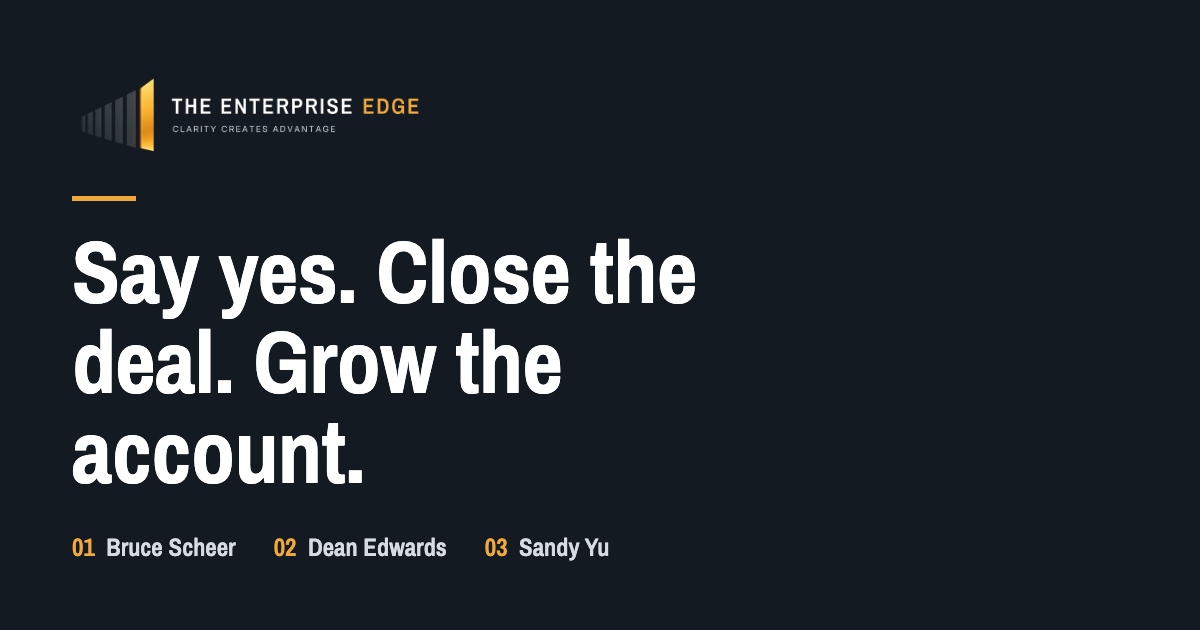
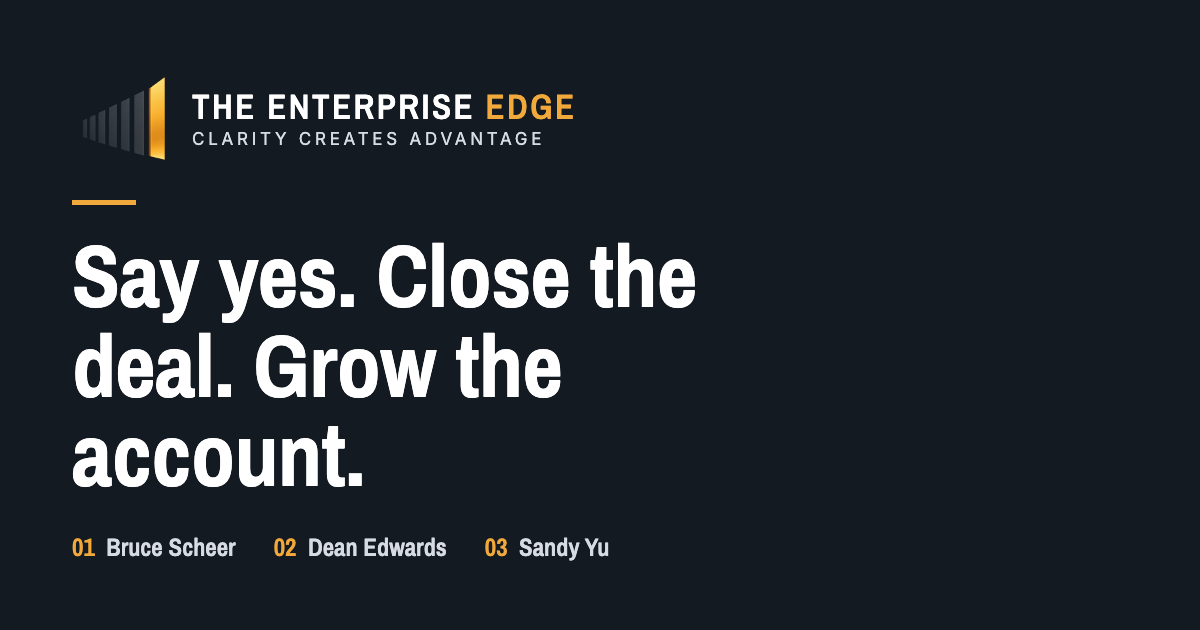
Rebalance the lockup: bigger name and phrase, smaller symbol
The lockup was a flat image, so its internal proportions could not be
touched. It is now composed from the kit's symbol plus the wordmark and
phrase set live in Archivo Narrow and Inter, which this site already
self-hosts and which the artwork was typeset in. That makes the three
parts independently sizable, keeps the text crisp at any zoom, lets it
recolour with the tokens, and makes the wordmark real text rather than
pixels.

Every number was derived by measuring the baked artwork as it actually
rendered in the header, not guessed. At 380px wide it gave a 63.5px
symbol, a 13.7px wordmark cap height, and a phrase cap height of 5.7px,
which is why the phrase looked like grey dust.

  symbol    63.5 -> 54.1  (-15%)
  wordmark  13.7 -> 16.6  (+21%)
  phrase     5.7 ->  8.0  (+40%)
  tracking  .28em -> .22em on the phrase

Cap heights were converted through each family's own ratio: Archivo Narrow
caps are .72 of em, Inter's are .727. The symbol file is 79.5% ink, so the
element is sized to 54 / 0.795. All of that is written down in brand.css
so the next adjustment is arithmetic rather than trial and error.

The header got shorter as a result, 118px to 100px, because the symbol
carried most of its height.

Two fixes alongside. Restoring the nav rules, which I deleted along with
the old brand block: the range I replaced ran past the brand styles into
.site-nav and .nav-cta, and the nav briefly rendered as unstyled links.
[…]

diff --git a/src/styles/brand.css b/src/styles/brand.css
@@ -84,31 +84,51 @@ img{max-width:100%}
 .site-head{background:var(--ink);color:var(--white)}
 .head-in{max-width:72rem;margin:0 auto;padding:1rem 1.25rem;
   display:flex;align-items:center;gap:1.5rem;flex-wrap:wrap}
-.brand{display:flex;align-items:center;text-decoration:none;flex:0 0 auto}
+.brand{display:flex;align-items:center;gap:.85rem;text-decoration:none;flex:0 0 auto}
 /* The mark sits with the type, not above it: centred alignment, and the two
    words keep their own baseline relationship via line-height. */
 /* One artwork rather than a mark plus type. Height drives the size and width
    follows, so the lockup keeps its proportions at every breakpoint, and the
    width/height attributes on the tag reserve the box before it loads. */
-/* Sized by WIDTH rather than height, because legibility of the phrase is a
-   function of width: "CLARITY CREATES ADVANTAGE" holds down to about 380px
-   across the lockup and falls apart below it. Height-driven sizing made that
-   impossible to reason about.
+/* ---------- The lockup ----------
+   Composed from three parts so each can be sized on its own. Every number
+   below was derived by measuring the kit's baked lockup as it rendered in
+   this header, then applying the adjustment asked for.
 
-   Below 700px the markup swaps to the compact lockup, which carries no
-   phrase and reads fine at 250px. */
-.brand picture{display:block}
-.brand img{display:block;width:380px;height:auto;max-width:100%;
-  transition:width .22s ease}
+   At 380px wide the artwork gave a 63.5px symbol, a 13.7px wordmark cap
+   height and a 5.7px phrase cap height. Targets: symbol 15% smaller, wordmark
+   20% larger, phrase 40% larger with slightly tighter tracking.
+
+     symbol   63.5 -> 54.0 ink height. The file is 79.5% ink, so the element
+                     is 54 / 0.795 = 68px tall.
+     wordmark 13.7 -> 16.4 cap height. Archivo Narrow caps are .72 of em,
+                     so 16.4 / .72 = 23px.
+     phrase    5.7 ->  8.0 cap height. Inter caps are .727 of em,
+                     so 8.0 / .727 = 11px.
+
+   Change a size here, not by scaling the whole lockup. */
+.brand-symbol{display:block;height:68px;width:auto;flex:0 0 auto}
+.brand-type{display:flex;flex-direction:column;gap:.4rem;min-width:0}
+.brand-name{font-family:var(--font-head);font-weight:600;font-size:23px;
+  letter-spacing:.07em;text-transform:uppercase;color:var(--white);line-height:1}
+.brand-name i{font-style:normal;color:var(--amber)}
+.brand-phrase{font-family:var(--font-body);font-weight:400;font-size:11px;
+  letter-spacing:.22em;text-transform:uppercase;color:var(--pale);line-height:1;
+  white-space:nowrap}
+
+/* Below 700px the phrase goes rather than shrinking, and the rest steps down
+   with the header. */
 @media (max-width:699px){
-  .brand img{width:250px}
+  .brand-phrase{display:none}
+  .brand-symbol{height:52px}
+  .brand-name{font-size:19px}
 }
 @media (max-width:420px){
-  .brand img{width:210px}
+  .brand-symbol{height:44px}
+  .brand-name{font-size:16px}
 }
-/* Wordmark is set in type, not an image. There is no logo file yet, and a
-   type lockup is the honest placeholder: it is legible, it scales, and it is
-   trivially replaced by an <img> when a mark exists. */
+
+/* ---------- Primary nav ---------- */
 .site-nav{margin-left:auto;display:flex;align-items:center;gap:1.25rem;flex-wrap:wrap}
 .site-nav a{color:var(--pale);text-decoration:none;font-size:.95rem;
   padding:.35rem 0;border-bottom:2px solid transparent}
@@ -330,7 +350,8 @@ p{line-height:1.6;margin:0 0 1.15rem;max-width:40rem}
   .head-in{transition:padding .22s ease}
   .site-head.is-stuck{box-shadow:0 2px 16px rgba(20,26,34,.4)}
   .site-head.is-stuck .head-in{padding-top:.5rem;padding-bottom:.5rem}
-  .site-head.is-stuck .brand img{width:300px}
+  .site-head.is-stuck .brand-symbol{height:52px}
+  .site-head.is-stuck .brand-phrase{display:none}
   :root{--anchor-offset:5rem}
 }
 [id]{scroll-margin-top:var(--anchor-offset)}

diff --git a/tools/og.html b/tools/og.html
@@ -7,10 +7,17 @@
 body{width:1200px;height:630px;background:#141A22;color:#fff;
   font-family:'Inter',sans-serif;padding:66px 72px;display:flex;
   flex-direction:column;justify-content:space-between;overflow:hidden}
-.top{display:flex;align-items:center}
-/* The finished tagline lockup, used whole. It carries the mark, the wordmark
-   and the phrase as one artwork, so nothing here re-typesets any of them. */
-.lockup{width:430px;display:block}
+.top{display:flex;align-items:center;gap:16px}
+/* Composed the same way as the site header so the two cannot drift: the
+   kit's symbol, then the wordmark and phrase set in the same fonts. Sizes
+   are the header's, scaled up for a 1200px card. */
+.sym{height:104px;width:auto;display:block;flex:0 0 auto}
+.type{display:flex;flex-direction:column;gap:7px}
+.nm{font-family:'Archivo Narrow',sans-serif;font-weight:600;font-size:35px;
+  letter-spacing:2.45px;text-transform:uppercase;color:#fff;line-height:1}
+.nm i{font-style:normal;color:#F2A93B}
+.ph{font-family:'Inter',sans-serif;font-weight:400;font-size:17px;
+  letter-spacing:3.74px;text-transform:uppercase;color:#D7DCE4;line-height:1}
 .wm span{color:#F2A93B}
 h1{font-family:'Archivo Narrow',sans-serif;font-weight:700;font-size:88px;
   line-height:1.02;letter-spacing:-.5px;max-width:19ch}
@@ -20,7 +27,11 @@ h1{font-family:'Archivo Narrow',sans-serif;font-weight:700;font-size:88px;
 .who b{color:#F2A93B;font-weight:600}
 </style></head><body>
 <div class="top">
-  <img class="lockup" src="file:///Users/brucescheer/enterprise-edge-site/public/assets/ee-lockup-tagline-dark.png" alt="">
+  <img class="sym" src="file:///Users/brucescheer/enterprise-edge-site/public/assets/ee-symbol.png" alt="">
+  <div class="type">
+    <div class="nm">The Enterprise <i>Edge</i></div>
+    <div class="ph">Clarity creates advantage</div>
+  </div>
   
 </div>
 <div>

diff --git a/tools/README.md b/tools/README.md
@@ -31,3 +31,15 @@ swift tools/crop.swift <in.jpg> <out.jpg> <x> <y> <w> <h> 800
 
 x and y are from the top left of the source image. Bruce's was
 `215 0 570 570` from a 1000x813 original.
+
+# The symbol
+
+`public/assets/ee-symbol.png` is the shipped copy, downscaled to 320px because
+the header renders it at 68px and the Open Graph card at 104px. The original
+1254px export from the brand kit is kept at `tools/source/ee-symbol-1254.png`
+for anything that needs it, such as print or a larger placement.
+
+The lockup is not a baked image. The header composes the symbol with live text
+in Archivo Narrow and Inter, so the symbol, the wordmark and the phrase can be
+sized independently. The sizes and how they were derived are documented in
+`src/styles/brand.css` under "The lockup".
